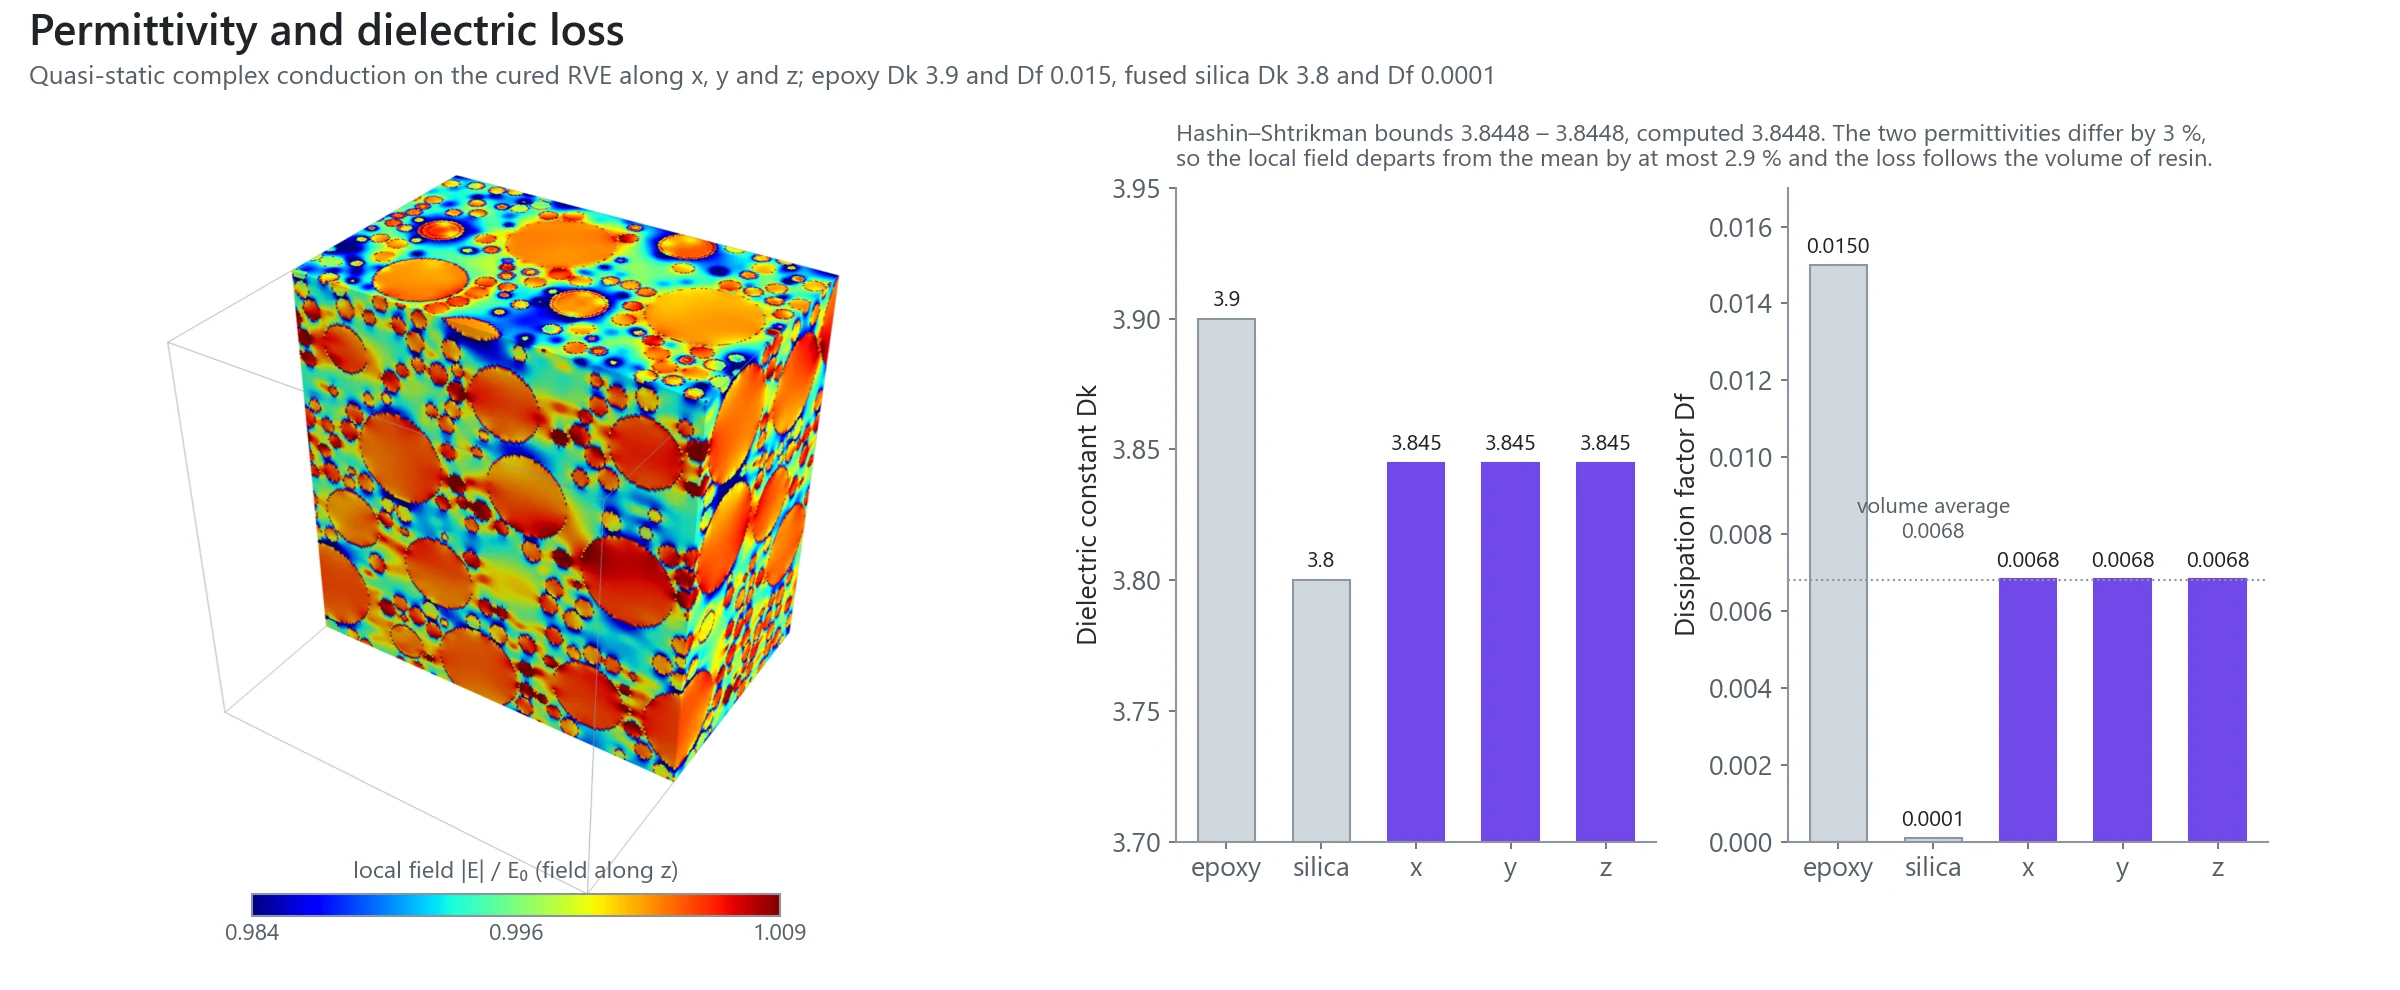
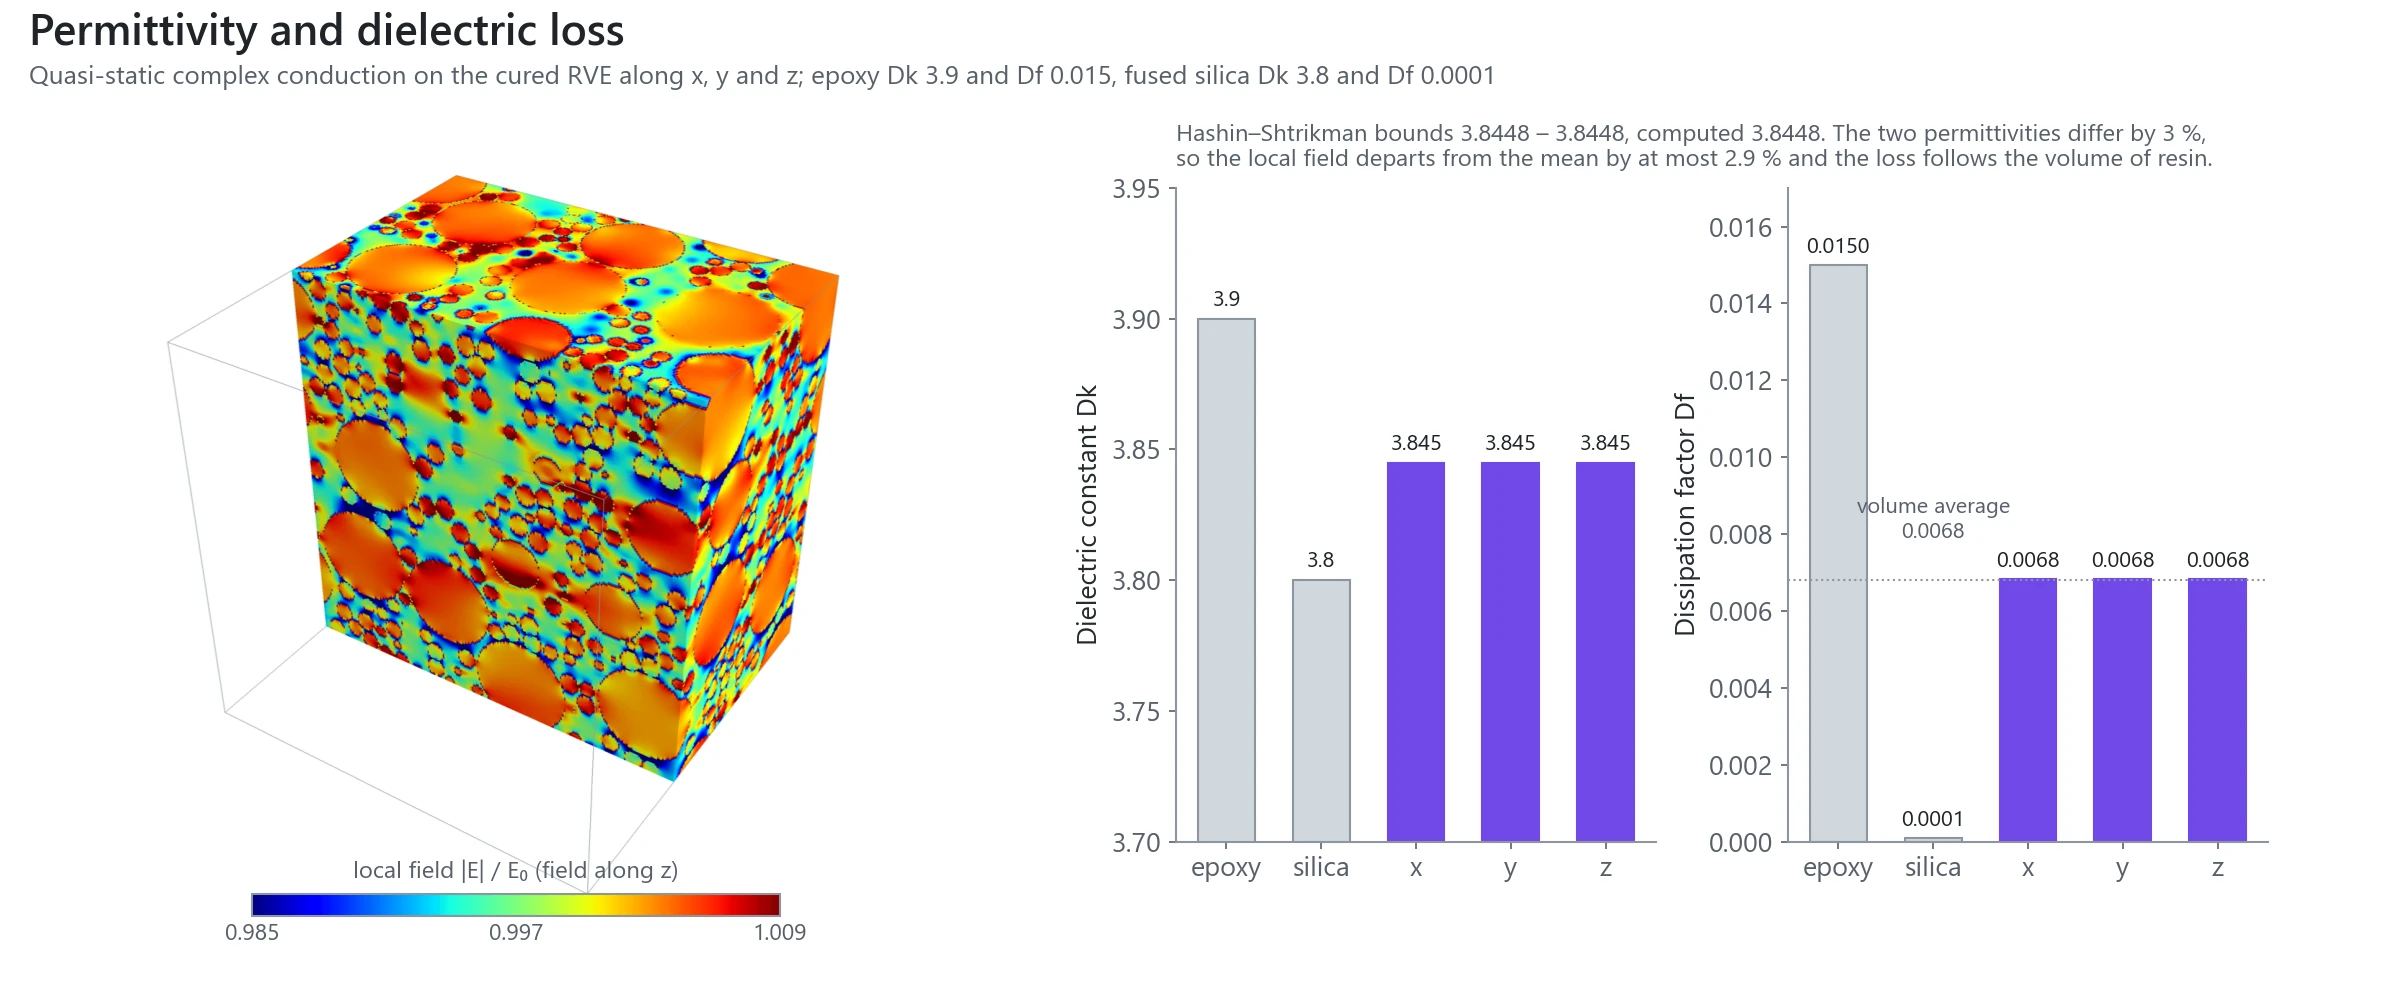
Site: MPSim 5.5.0 - recomputed benchmarks and MUF example (touching particles), side-by-side flow curve

Changed region(s): [[0.0938, 0.1818, 0.375, 0.7879]]

diff --git a/index.html b/index.html
@@ -29,7 +29,7 @@
   "description": "Open-source simulator for the effective properties of semiconductor materials computed from their 3D microstructure on voxel representative volume elements (RVEs).",
   "applicationCategory": "ScientificApplication",
   "operatingSystem": "Windows 10, Windows 11",
-  "softwareVersion": "5.4.0",
+  "softwareVersion": "5.5.0",
   "license": "https://opensource.org/licenses/MIT",
   "url": "https://hyoseokbyun-opt.github.io/MPSim/",
   "downloadUrl": "https://github.com/HyoseokByun-opt/MPSim/releases/latest",
@@ -180,7 +180,7 @@
       <a class="btn" href="https://github.com/HyoseokByun-opt/MPSim/releases/latest/download/MPSim-User-Guide-EN.pdf">User guide (PDF)</a>
       <a class="btn" href="https://github.com/HyoseokByun-opt/MPSim">Source code</a>
     </div>
-    <div class="meta"><b>Version 5.4.0</b> · MIT License · Windows 10 / 11 ·
+    <div class="meta"><b>Version 5.5.0</b> · MIT License · Windows 10 / 11 ·
       <a href="https://doi.org/10.5281/zenodo.23120194">DOI 10.5281/zenodo.23120194</a></div>
     <figure class="banner">
       <img src="assets/banner.webp" width="1800" height="1051" fetchpriority="high"
@@ -248,12 +248,12 @@
       <div class="sheet wide" aria-label="Summary of the properties of the cured compound">
           <div class="tile" style="--c:#1c7ed6"><span class="lab">Flow<i> · before cure</i></span><b>33 Pa·s</b><span class="l">at 10 1/s; relative viscosity 24 ± 3</span><span class="l">filling of a 50 µm × 10 mm gap: 108 min</span><span class="l">maximum packing φm 0.77</span></div>
           <div class="tile" style="--c:#4263eb"><span class="lab">Settling<i> · before gel</i></span><b>2.9 µm</b><span class="l">15 µm silica, 30 min before gelation</span><span class="l">hindered settling at 55 vol%</span><span class="l">41 times slower than an isolated particle</span></div>
-          <div class="tile" style="--c:#0b62c4"><span class="lab">Structure<i> · after the flow</i></span><b>4.5 close pairs</b><span class="l">per sphere (random packing: 2.5)</span><span class="l">oriented along the compression axis (-0.024)</span><span class="l">after shear flow to a strain of 10</span></div>
-          <div class="tile" style="--c:#e8590c"><span class="lab">Heat<i> · die to substrate</i></span><b>0.573 W/m·K</b><span class="l">through the gap (z); x 0.573, y 0.579</span><span class="l">2.9 times the resin (0.2 W/m·K)</span><span class="l">random packing: 0.569 (+0.7 %)</span></div>
-          <div class="tile" style="--c:#2b8a3e"><span class="lab">Expansion<i> · warpage</i></span><b>18.4 ppm/K</b><span class="l">below Tg; resin 60, silica 0.5</span><span class="l">Kerner (separate spheres) 22.6</span><span class="l">near contacts restrain the resin</span></div>
-          <div class="tile" style="--c:#0ca678"><span class="lab">Stiffness<i> · stress</i></span><b>13.3 GPa</b><span class="l">Young&#x27;s modulus; resin 3, silica 72</span><span class="l">Poisson&#x27;s ratio 0.26</span><span class="l">within the Hashin–Shtrikman bounds</span></div>
+          <div class="tile" style="--c:#0b62c4"><span class="lab">Structure<i> · after the flow</i></span><b>3.8 close pairs</b><span class="l">per sphere (random packing: 1.7)</span><span class="l">oriented along the compression axis (-0.033)</span><span class="l">after shear flow to a strain of 10</span></div>
+          <div class="tile" style="--c:#e8590c"><span class="lab">Heat<i> · die to substrate</i></span><b>0.596 W/m·K</b><span class="l">through the gap (z); x 0.588, y 0.602</span><span class="l">3.0 times the resin (0.2 W/m·K)</span><span class="l">random packing: 0.576 (+3.5 %)</span></div>
+          <div class="tile" style="--c:#2b8a3e"><span class="lab">Expansion<i> · warpage</i></span><b>16.5 ppm/K</b><span class="l">below Tg; resin 60, silica 0.5</span><span class="l">Kerner (separate spheres) 22.6</span><span class="l">touching particles restrain the resin</span></div>
+          <div class="tile" style="--c:#0ca678"><span class="lab">Stiffness<i> · stress</i></span><b>15.0 GPa</b><span class="l">Young&#x27;s modulus; resin 3, silica 72</span><span class="l">Poisson&#x27;s ratio 0.25</span><span class="l">within the Hashin–Shtrikman bounds</span></div>
           <div class="tile" style="--c:#7048e8"><span class="lab">Signal<i> · Dk and Df</i></span><b>Dk 3.84</b><span class="l">Df 0.0068</span><span class="l">resin Dk 3.9, Df 0.015</span><span class="l">Df: volume-weighted mean of the phases</span></div>
-          <div class="tile" style="--c:#1098ad"><span class="lab">Moisture<i> · reliability</i></span><b>0.77 wt%</b><span class="l">saturated uptake (resin 2.5 wt%)</span><span class="l">diffusivity 1.99e-12 m²/s</span><span class="l">1 mm part: 50 % saturation in 7 h</span></div>
+          <div class="tile" style="--c:#1098ad"><span class="lab">Moisture<i> · reliability</i></span><b>0.77 wt%</b><span class="l">saturated uptake (resin 2.5 wt%)</span><span class="l">diffusivity 1.92e-12 m²/s</span><span class="l">1 mm part: 50 % saturation in 7 h</span></div>
       </div>
 
       <div class="ex">
@@ -283,7 +283,7 @@
         <h3>Microstructure after shear flow</h3>
         <p>The random packing is sheared with the flow along x and the velocity gradient along z to a whole-number strain (10),
           at which the sheared periodic images coincide with the ordinary ones. The number of close pairs (surfaces within 5 % of
-          the sum of the radii) increases from 2.5 to 4.5 per sphere, and the pairs orient along the compression axis of the shear
+          the sum of the radii) increases from 1.7 to 3.8 per sphere, and the pairs orient along the compression axis of the shear
           (135° from the flow direction) while the extension axis (45°) is depleted, as known for sheared non-Brownian
           suspensions (Morris, <i>Rheol. Acta</i> 48, 909 (2009)). The contents of the drawn structure equal the input (38.50 and
           16.50 vol%).</p>
@@ -294,11 +294,11 @@
       <div class="ex">
         <h3>Thermal conductivity</h3>
         <p>Steady heat conduction is solved with periodic finite volumes along x, y and z. The conductivity through the gap,
-          0.573 W/m·K, is 2.9 times that of the resin, 5 % above the Maxwell–Garnett estimate (the lower Hashin–Shtrikman bound,
-          0.544) and well below the Bruggeman estimate (0.685): the particles are separated by resin films, and the heat flux is
-          highest in the silica and in the thin gaps between near-contacting particles. The changes caused by the shear (up to
-          1.6 %) are smaller than the statistical scatter of one realisation. Refining the grid from 240³ to 360³ changes k_z by
-          +0.12 %.</p>
+          0.596 W/m·K, is 3.0 times that of the resin, 9.5 % above the Maxwell–Garnett estimate (the lower Hashin–Shtrikman
+          bound, 0.544) and well below the Bruggeman estimate (0.685): at a conductivity ratio of 7 the points where particles
+          touch carry little of the heat. The shear brings particles into contact and raises the conductivity by 3.5 % through
+          the gap and 4.0 % along y (0.7 % along the flow), of the order of the scatter of one realisation. Refining the grid
+          from 240³ to 360³ changes k_z by −0.04 %.</p>
         <div class="flow">
           <figure class="anim"><img src="assets/heat_flux.gif" width="560" height="560" loading="lazy"
                alt="Heat flux inside the cured compound, a cut plane travelling through the RVE">
@@ -306,12 +306,12 @@
           <div>
         <table class="kv">
           <tr><th>Direction</th><th>Random packing</th><th>After shear flow</th><th>Change</th></tr>
-          <tr><td>x (flow)</td><td>0.573</td><td>0.573</td><td>0.0 %</td></tr>
-          <tr><td>y (vorticity)</td><td>0.570</td><td>0.579</td><td>+1.6 %</td></tr>
-          <tr><td>z (gradient, through the gap)</td><td>0.569</td><td>0.573</td><td>+0.7 %</td></tr>
+          <tr><td>x (flow)</td><td>0.584</td><td>0.588</td><td>+0.7 %</td></tr>
+          <tr><td>y (vorticity)</td><td>0.579</td><td>0.602</td><td>+4.0 %</td></tr>
+          <tr><td>z (gradient, through the gap)</td><td>0.576</td><td>0.596</td><td>+3.5 %</td></tr>
         </table>
-            <p class="note">W/m·K. A 1 mm layer has an area-specific resistance of 1745 mm²K/W; the thermal diffusivity is
-              0.386 mm²/s.</p>
+            <p class="note">W/m·K. A 1 mm layer has an area-specific resistance of 1678 mm²K/W; the thermal diffusivity is
+              0.400 mm²/s.</p>
           </div>
         </div>
         <figure class="shot plots"><img src="assets/muf_heat.webp" width="2400" height="990" loading="lazy"
@@ -320,19 +320,19 @@
 
       <div class="ex">
         <h3>Thermal expansion and stiffness</h3>
-        <p>FANS solves six unit strains and a uniform temperature change. The volumetric mean CTE, 18.4 ppm/K, lies below the
-          Kerner estimate for separated spheres (22.6 ppm/K), since near-contacting particles restrain the resin; the Hill
-          modulus, 13.3 GPa (ν 0.26), lies within the Hashin–Shtrikman bounds (9.4–30.2 GPa). Fewer close pairs lie along the
-          flow direction x, where E is lowest and α highest; the difference (up to 5 %) is comparable with the scatter of one
-          realisation. For a temperature rise of 100 K with the RVE held at its size, the von Mises stress concentrates in the
-          fine filler and at near contacts (mean 15 MPa, 99th percentile 68 MPa in the 3 µm silica).</p>
+        <p>FANS solves six unit strains and a uniform temperature change. The volumetric mean CTE, 16.5 ppm/K, lies below the
+          Kerner estimate for separated spheres (22.6 ppm/K), since touching particles restrain the resin; the Hill
+          modulus, 15.0 GPa (ν 0.25), lies within the Hashin–Shtrikman bounds (9.4–30.2 GPa). Fewer close pairs lie along the
+          flow direction x, where E is lowest and α highest; the difference (up to 11 % in α, 5 % in E) is comparable with the
+          scatter of one realisation. For a temperature rise of 100 K with the RVE held at its size, the von Mises stress
+          concentrates in the fine filler and where particles touch (mean 23 MPa, 99th percentile 85 MPa in the 3 µm silica).</p>
         <figure class="shot plots"><img src="assets/muf_mechanics.webp" width="2400" height="990" loading="lazy"
              alt="Thermal stress, thermal expansion and Young's modulus per direction"></figure>
         <table class="kv">
           <tr><th>Direction</th><th>α (ppm/K)</th><th>E (GPa)</th></tr>
-          <tr><td>x (flow)</td><td>18.7</td><td>13.4</td></tr>
-          <tr><td>y (vorticity)</td><td>17.8</td><td>13.7</td></tr>
-          <tr><td>z (gradient)</td><td>18.5</td><td>13.8</td></tr>
+          <tr><td>x (flow)</td><td>17.4</td><td>15.0</td></tr>
+          <tr><td>y (vorticity)</td><td>15.6</td><td>15.8</td></tr>
+          <tr><td>z (gradient)</td><td>16.4</td><td>15.5</td></tr>
         </table>
       </div>
 
@@ -349,17 +349,17 @@
       <div class="ex">
         <h3>Moisture uptake and swelling</h3>
         <p>Diffusion is solved on the water activity, which is continuous across the phase boundaries; the silica does not
-          absorb water. The effective diffusivity is 0.67 times that of the resin, 15 % below the Maxwell estimate for
-          impermeable spheres (0.78), because the diffusion paths wind between closely spaced particles. The silica restrains
-          the hygroscopic swelling to 0.23 % at saturation.</p>
+          absorb water. The effective diffusivity is 0.64 times that of the resin, 18 % below the Maxwell estimate for
+          impermeable spheres (0.78), because the diffusion paths wind between closely spaced and touching particles. The
+          silica restrains the hygroscopic swelling to 0.20 % at saturation.</p>
         <figure class="shot plots"><img src="assets/muf_moisture.webp" width="2400" height="990" loading="lazy"
              alt="Water activity, uptake curve of a 1 mm part and diffusivity per direction"></figure>
         <table class="kv">
           <tr><th>Quantity</th><th>Cured compound</th><th>Epoxy</th></tr>
           <tr><td>Saturated uptake</td><td>0.77 wt%</td><td>2.5 wt%</td></tr>
-          <tr><td>Diffusivity D_x / D_y / D_z (10⁻¹² m²/s)</td><td>2.00 / 2.04 / 1.99</td><td>3.0</td></tr>
-          <tr><td>1 mm part: 50 % / 95 % of saturation</td><td>6.9 h / 39 h</td><td>4.6 h / 26 h</td></tr>
-          <tr><td>Swelling strain at saturation</td><td>0.23 %</td><td>0.75 %</td></tr>
+          <tr><td>Diffusivity D_x / D_y / D_z (10⁻¹² m²/s)</td><td>1.87 / 1.96 / 1.92</td><td>3.0</td></tr>
+          <tr><td>1 mm part: 50 % / 95 % of saturation</td><td>7.1 h / 41 h</td><td>4.6 h / 26 h</td></tr>
+          <tr><td>Swelling strain at saturation</td><td>0.20 %</td><td>0.75 %</td></tr>
         </table>
       </div>
     </div>
@@ -381,7 +381,7 @@
       <p class="sub">The engine is verified against problems with known solutions. Every run also reports its own checks (RVE size,
         resolution, particle count, convergence and rigorous bounds) as passed, warning or failed, together with the reason.</p>
       <div class="stats">
-        <div class="stat"><b>64</b><span>self-test problems with known solutions</span></div>
+        <div class="stat"><b>73</b><span>self-test problems with known solutions</span></div>
         <div class="stat"><b>7× / 10×</b><span>RVE edge per largest particle, from Kanit et al. statistics</span></div>
         <div class="stat"><b>30</b><span>ready-to-run presets for semiconductor materials, four compared with published measurements</span></div>
         <div class="stat"><b>68</b><span>materials in the library, all editable</span></div>
@@ -403,10 +403,10 @@
       <h3 style="margin:30px 0 8px">Compared with published measurements</h3>
       <table class="bench">
         <tr><th>Preset and source</th><th>Reported</th><th>Computed</th></tr>
-        <tr><td>Cu + diamond 50 vol%, 400 µm<span class="src">Wang et al., <i>Materials</i> 2025 <a href="#ref1">[1]</a></span></td><td>640 W/m·K</td><td>644 W/m·K (interface 12.5 MW/m²K)</td></tr>
+        <tr><td>Cu + diamond 50 vol%, 400 µm<span class="src">Wang et al., <i>Materials</i> 2025 <a href="#ref1">[1]</a></span></td><td>640 W/m·K</td><td>646 W/m·K (interface 12.5 MW/m²K)</td></tr>
         <tr><td>AlSiC 63 vol%<span class="src">Guo et al., <i>J. USTB</i> 2014 <a href="#ref2">[2]</a></span></td><td>178 W/m·K, 8.21 ppm/K</td><td>189 W/m·K, 8.84 ppm/K</td></tr>
         <tr><td>PTFE + silica 60 wt%<span class="src">Murali et al., <i>Compos. A</i> 2009 <a href="#ref3">[3]</a></span></td><td>Dk 2.9</td><td>Dk 3.01</td></tr>
-        <tr><td>Carbonyl iron + epoxy 54 vol%<span class="src">Sugawa et al., <i>IEEE Trans. Magn.</i> 2013 <a href="#ref4">[4]</a></span></td><td>μr 7.5 (printed core)</td><td>μr 5.1 (separate spheres; a printed core forms chains)</td></tr>
+        <tr><td>Carbonyl iron + epoxy 54 vol%<span class="src">Sugawa et al., <i>IEEE Trans. Magn.</i> 2013 <a href="#ref4">[4]</a></span></td><td>μr 7.5 (printed core)</td><td>μr 5.96 (spheres; a printed core forms chains)</td></tr>
       </table>
       <ol class="refs">
         <li id="ref1">Q. Wang, Z. Ye, L. Liu, J. Bai, Y. Zhao, Q. Hu, H. Liu, L. Hu, X. Guo, Y. Xiao, W. Cao, Z. Yang, “High thermal conductivity diamond–copper composites prepared via hot pressing with tungsten-coated interfacial layer optimization”, <i>Materials</i> <b>18</b> (16), 3882 (2025). <a href="https://doi.org/10.3390/ma18163882">doi:10.3390/ma18163882</a> — 400 µm diamond, 50 vol%: 640 W/m·K.</li>
@@ -447,7 +447,7 @@ cd C:\MPSim
       <pre><code>@software{byun_mpsim,
   author    = {Byun, Hyoseok},
   title     = {{MPSim: Material Property Simulation}},
-  version   = {5.4.0},
+  version   = {5.5.0},
   year      = {2026},
   publisher = {Zenodo},
   doi       = {10.5281/zenodo.23120194},
